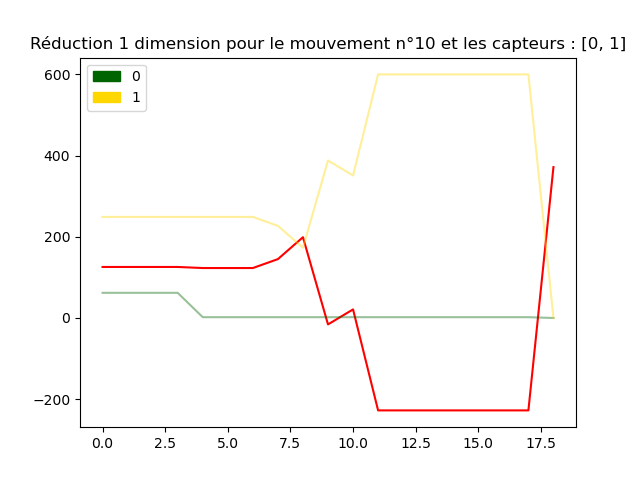
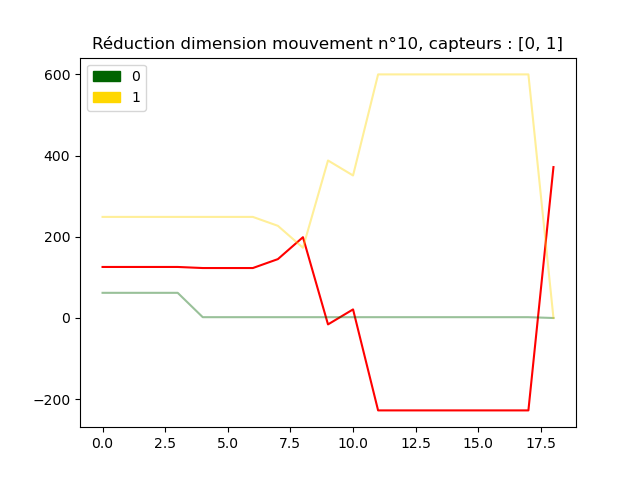
..

Changed region(s): [[0.0312, 0.0625, 0.875, 0.125], [0.9062, 0.0625, 0.9375, 0.125]]

diff --git a/movement.py b/movement.py
@@ -182,7 +182,7 @@ class Movement:
         pca = PCA(n_components=1)
         principalComponents = pca.fit_transform(df)
         plt.figure()
-        plt.title(f"Réduction 1 dimension pour le mouvement n°{mouvement} et les capteurs : {dimensions}")
+        plt.title(f"Réduction dimension mouvement n°{mouvement}, capteurs : {dimensions}")
         plt.plot(principalComponents,  c ='red')
         for i in range(len(dimensions)):
             plt.plot(df['capteur_{}'.format(i)],alpha=0.4, c =list_couleurs[i])
@@ -191,6 +191,24 @@ class Movement:
             plt.savefig('images/' + name)
         else :
             plt.show()
+    #----------------------------------------------------------------------
+    def dimensionReduction(self,mouvement, dimensions):
+        list_couleurs = ["darkgreen", "gold", "coral", "magenta",  "cyan", "black", "teal", "deepskyblue", "orange", "yellowgreen", "olive", "rosybrown", "silver", "gray", "peru"]
+        array = self.getMovements()
+        df = pd.DataFrame({'capteur_0': array[mouvement][dimensions[0]],
+                           'capteur_1': array[mouvement][dimensions[1]]})
+        if(len(dimensions) > 2) :
+            for j in range(2,len(dimensions)):
+                df["capteur_{}".format(j)] = array[mouvement][dimensions[j]]
+        pca = PCA(n_components=1)
+        principalComponents = pca.fit_transform(df)
+        plt.figure()
+        plt.title(f"Réduction dimension mouvement n°{mouvement}, capteurs : {dimensions}")
+        plt.plot(principalComponents,  c ='red')
+        for i in range(len(dimensions)):
+            plt.plot(df['capteur_{}'.format(i)],alpha=0.4, c =list_couleurs[i])
+        plt.legend(handles=self.setLabel(list_couleurs,len(dimensions)))
+
     #----------------------------------------------------------------------
     def update(self):
         self.numberOfMovements = len(self.array)

diff --git a/playload.py b/playload.py
@@ -1,9 +1,4 @@
 from movement import Movement
-import numpy as np
-import matplotlib.pyplot as plt
-
-from sklearn.decomposition import PCA, KernelPCA
-from sklearn.datasets import make_circles
 
 
 #debut du playload
@@ -14,9 +9,11 @@ m = Movement(3,10,19,12)
 m.readFromCsv("datasetbis.csv") 
 #on affiche sur la console les caracteristiques de notre objet de type movement
 m.describe()
+"""
 #on affiche les graphes des capteurs en fonction des mouvements
-#m.saveFigSensorsByMovements()
-#m.saveFigMovementsBySensor()
+m.saveFigSensorsByMovements()
+m.saveFigMovementsBySensor()
+"""
 #on reduit la dimensionnalité de 1 avec les capteurs 0 et 1 pour le mouvment n°10 et on affiche le graphe
 m.dimensionReductionExample(10,[0,1],save=True,name="figure1.png")
 #on reduit la dimensionnalité de 1 avec les capteurs 0 , 1 et 2 pour le mouvment n°10 et on affiche le graphe
@@ -24,3 +21,11 @@ m.dimensionReductionExample(10,[0,1,2],save=True,name="figure2.png")
 #on reduit la dimensionnalité de 2 avec avec les capteurs 0, 1 ,2 ,3 , 4 et 5  pour le mouvement n°10 et on affiche le graphe
 m.dimensionReductionExample(10,[0,1,2,3,4,5],save=True,name="figure3.png")
 #on reduit la dimensionnalité de notre dataset au maximum pour ne laisser que deux dimensions (oeil gauche et oeil droit)
+m.dimensionReduction()
+#on affiche sur la console les caracteristiques de notre objet de type movement
+m.describe()
+"""
+#on affiche les graphes des capteurs en fonction des mouvements
+m.saveFigSensorsByMovements(prefix="final_")
+m.saveFigMovementsBySensor( prefix = "final_")
+"""

diff --git a/Readme.md b/Readme.md
@@ -20,13 +20,13 @@ La lecture des informations provenant du dispositif est composé de 12 capteurs 
 Afin d'optimiser et de simplifier notre démarche de reconnaissance et d'identification des mouvements, nous **nous proposons de réduire un maximum le nombre de composantes disponibles**. Nous utiliserons ici le principe de réduction de dimensionnalités permise par les KPCA.   
 ## 2. Reduction d'une dimension
 ![image n°2](images/figure1.png)
-Ici nous avons "fait" fusionner la ligne des **capteurs 1 et 2** _(n°0 et n°1)_ respectivement en jaune et en vert pour obtenir **la ligne en rouge** 
+> Ici nous avons "fait" fusionner la ligne des **capteurs 1 et 2** _(n°0 et n°1)_ respectivement en jaune et en vert pour obtenir **la ligne en rouge** 
 ## 3. Reduction de deux dimensions
 ![image n°3](images/figure2.png)
-Ici nous avons "fait" fusionner la ligne des **capteurs 1 , 2 et 3** _(n°0 , n°1 et n°2)_ respectivement en jaune , vert  et en orange pour obtenir **la ligne en rouge** 
+> Ici nous avons "fait" fusionner la ligne des **capteurs 1 , 2 et 3** _(n°0 , n°1 et n°2)_ respectivement en jaune , vert  et en orange pour obtenir **la ligne en rouge** 
 ## 4. Reduction de cinq dimensions
 ![image n°4](images/figure3.png)
-Ici nous avons "fait" fusionner la ligne des **capteurs 1 , 2 ,3 , 4 et 5** _(n°0 , n°1 , n°2, n°3 , n°4 et n°5)_ respectivement en vert, jaune, orange, magenta, cyan et noir pour obtenir **la ligne en rouge** 
+> Ici nous avons "fait" fusionner la ligne des **capteurs 1 , 2 ,3 , 4 et 5** _(n°0 , n°1 , n°2, n°3 , n°4 et n°5)_ respectivement en vert, jaune, orange, magenta, cyan et noir pour obtenir **la ligne en rouge** 
 ## 5. Notre code
 A terme pour réduire les 12 entrées _(6 capteur pour chaque oeil)_ nous utilisons la méthode **DimensionReduction()** pour recuperer un tableau avec deux colonnes (oeil gauche et oeil droit).
 L'integralité du code se situe dans la classe [movement](movement.py). Le playload qui nous a permis de generer les images de ce write up est disponible dans le fichier [playload](playload.py)
